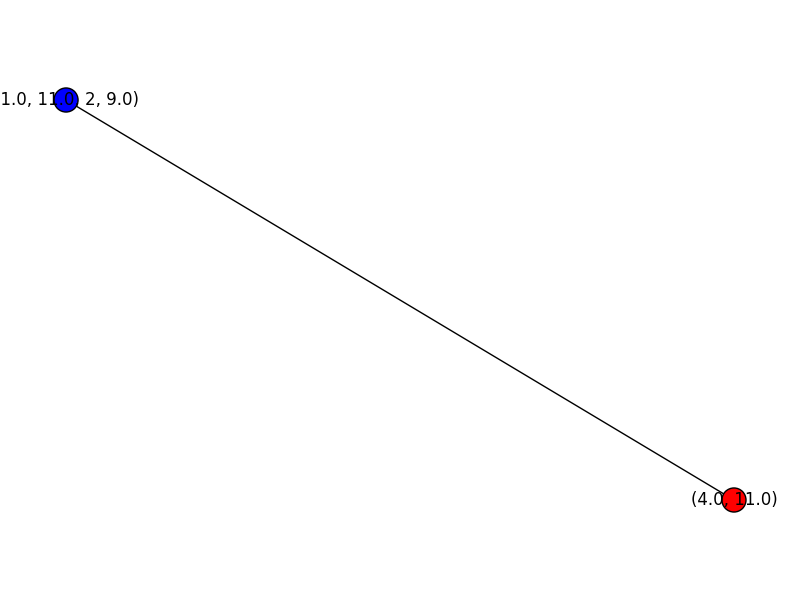
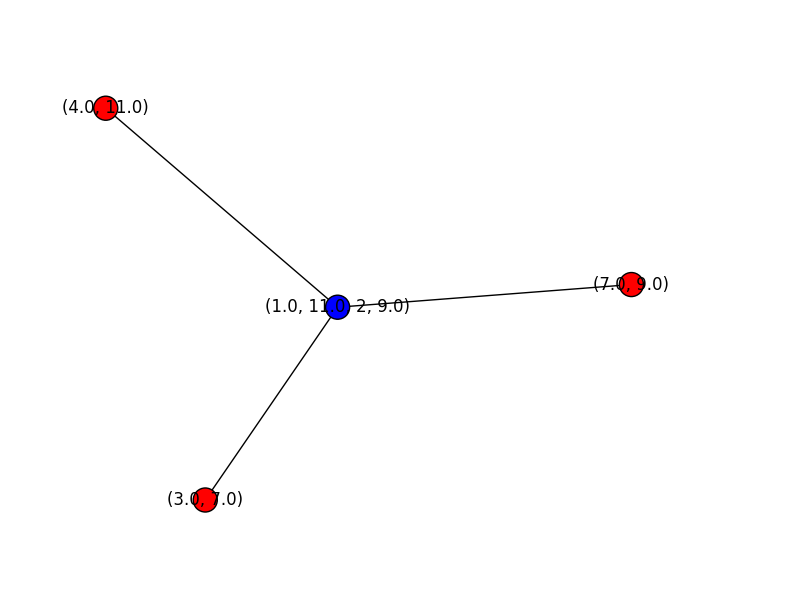
Distribuições de clientes a partir da demanda

diff --git a/main.py b/main.py
@@ -10,6 +10,15 @@ def distancia(c1, c2):
     return math.sqrt(
         ((c2.getX() - c1.getX()) ** 2) +
         ((c2.getY() - c1.getY()) ** 2))
+        
+def ordena(lista, cliente): 
+    ordenou = True
+    while ordenou:
+        ordenou = False
+        for i in range(len(lista) - 1):
+            if distancia(lista[i], cliente) < distancia(lista[i+1], cliente):
+                ordenou = True
+                lista[i], lista[i+1] = lista[i+1], lista[i]
 
 def ler_cliente(x, y, volume, valor, pacotes,flag):
     # x, y = float(input("Digite a coordenada X: ")), float(input("Digite a coordenada Y: "))
@@ -54,30 +63,79 @@ for i in range(qtd_veiculos):
     veiculo.append(ler_veiculo(float(leitura[0]), float(leitura[1]), float(leitura[2]), float(leitura[3]),
     float(leitura[4]), float(leitura[5]), float(leitura[6]), float(leitura[7]), float(leitura[8]), float(leitura[9])))
 
+print("a")
+
 # primeira classificação - considerando as distancias entre 
-# pontos 
+# pontos
+volumeTotal = 0 
+volumeIdeal = 0 
+
+
+
 for cliente in clientes: 
     menorCentro = list(regioes.keys())[0]
     menorDistancia = distancia(cliente, menorCentro)
-
+    
     for centro in regioes.keys():
         if (distancia(cliente, centro) < distancia(cliente, menorCentro)):
             menorCentro = centro
             menorDistancia = distancia(cliente, centro)
+            
 
     regioes[menorCentro].add_node(cliente)
     regioes[menorCentro].add_edge(cliente, menorCentro, weight=menorDistancia)
     menorCentro.volume += cliente.volume
     menorCentro.pacotes += cliente.pacotes
 
-for i in regioes:
-    print("Volume Regioes", i) 
+print("b")
 
+centros = list(regioes.keys())
+distribuicao_ideal = (qtd_casas - qtd_centros) / qtd_centros
+
+for centro in regioes.keys():
+    grafo = regioes[centro]
+    
+    if (len(list(grafo.neighbors(centro))) <= distribuicao_ideal):
+        continue
+    
+    for cliente in list(grafo.neighbors(centro)):
+        ordena(centros, cliente)
+        
+        if (len(list(regioes[centros[1]].neighbors(centros[1]))) < distribuicao_ideal):
+            grafo.remove_node(cliente)
+            regioes[centros[1]].add_node(cliente)
+            regioes[centros[1]].add_edge(cliente, centros[1], weight=distancia(centros[1], cliente))
+        elif (len(list(regioes[centros[2]].neighbors(centros[2]))) <= distribuicao_ideal):
+            grafo.remove_node(cliente)
+            regioes[centros[2]].add_node(cliente)
+            regioes[centros[2]].add_edge(cliente, centros[2], weight=distancia(centros[2], cliente))
+        
+        if (len(list(grafo.neighbors(centro))) <= distribuicao_ideal):
+            break
+        
+
+#Calacula o volume total e ideal de cada regiao
+for i in regioes:
+    volumeTotal = volumeTotal + i.volume
+    print("Volume Regioes", i) 
+    
+volumeIdeal = volumeTotal/qtd_centros
+
+print("Volume Ideal", volumeIdeal)
+print("Volume Total", volumeTotal)
+
+print("c")       
+for i in regioes.keys():
+    grafo = regioes[i]
+    print("Quantidade de vizinhos: ", len(list(grafo.neighbors(i))))
+    
 # centro = list(regioes.keys())[2]
 # grafo = regioes[centro]
 # nx.draw(grafo, with_labels=True)
 # a.savefig("graph{0}.png".format(i))
+
 i = 0
+print("d")
 for centro in regioes.keys():
     grafo = regioes[centro]
 
@@ -92,7 +150,7 @@ for centro in regioes.keys():
     i = i +1
     for u, v in grafo.adjacency():
         v = list(v.keys())[0]
-        print("({0},{1})-({2},{3})".format(u.getX(), u.getY(), v.getX(), v.getY()))
+        #print("({0},{1})-({2},{3})".format(u.getX(), u.getY(), v.getX(), v.getY()))
 
 print('Veiculos cadastrados')
 for i in veiculo:

diff --git a/modelo/clientes.py b/modelo/clientes.py
@@ -1,4 +1,7 @@
 from math import ceil
+from math import hypot
+
+
 class Cliente(object):
     def __init__(self, v, valor, qtdPacotes, coordX, coordY):
         self.volume = v*qtdPacotes*100
@@ -12,7 +15,7 @@ class Cliente(object):
         return self.__coordX
 
     def getY(self):
-        return self.__coordY
+        return self.__coordY 
 
     def __repr__(self):
         if self.centro:
